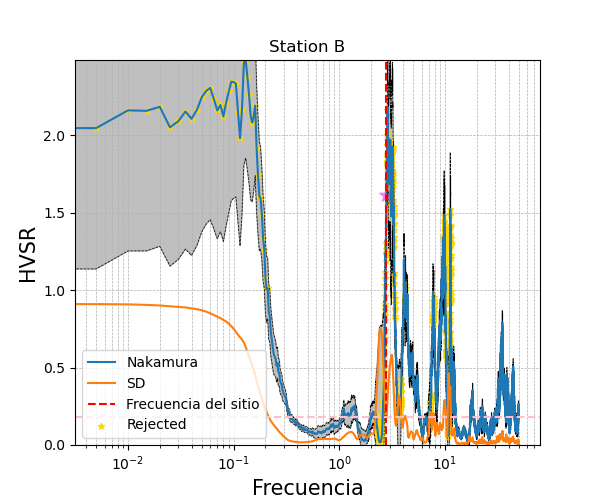
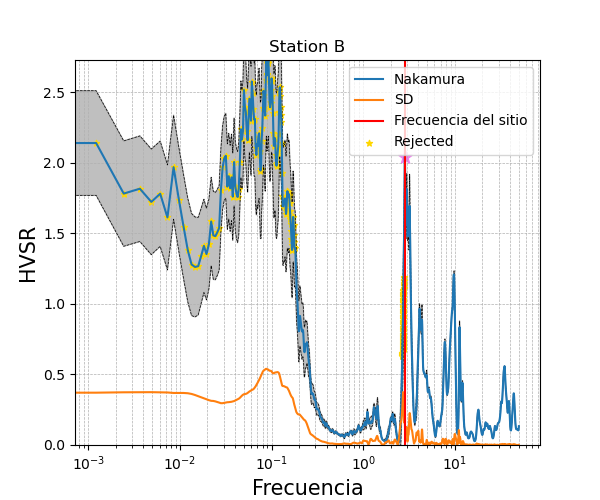
simple visualization

Changed region(s): [[0.06, 0.12, 0.9, 0.96], [0.18, 0.33, 0.24, 0.39], [0.06, 0.18, 0.12, 0.21]]

diff --git a/src/hvsrlearn.py b/src/hvsrlearn.py
@@ -308,10 +308,10 @@ class HvsrCalculator:
         ax.plot(f, HV, label=method)
         ax.plot(f, sd_moving, label='SD')
         ax.axvline(frecuencia_sitio, c='red', label='Frecuencia del sitio')
-        ax.axvline(frecuencia_sitio - sd, c='red', linestyle='--', )
-        ax.axvline(frecuencia_sitio + sd, c='red', linestyle='--')
-        ax.axvspan(frecuencia_sitio - sd, frecuencia_sitio + sd, color='pink', alpha=0.5)
-        ax.axhline(sd_threshold, c='darkorange', linestyle='--')
+        #ax.axvline(frecuencia_sitio - sd, c='red', linestyle='--', )
+        #ax.axvline(frecuencia_sitio + sd, c='red', linestyle='--')
+        #ax.axvspan(frecuencia_sitio - sd, frecuencia_sitio + sd, color='pink', alpha=0.5)
+        #ax.axhline(sd_threshold, c='darkorange', linestyle='--')
         ax.fill_between(f, HV - sd_moving, HV + sd_moving, color='gray', alpha=0.5)
         ax.scatter(f_rejected, rejected_data, s=20, marker='*', c='gold', label='Rejected')
         ax.scatter(frecuencia_sitio, HV_f[pos], s=100, marker='*', c='violet')
